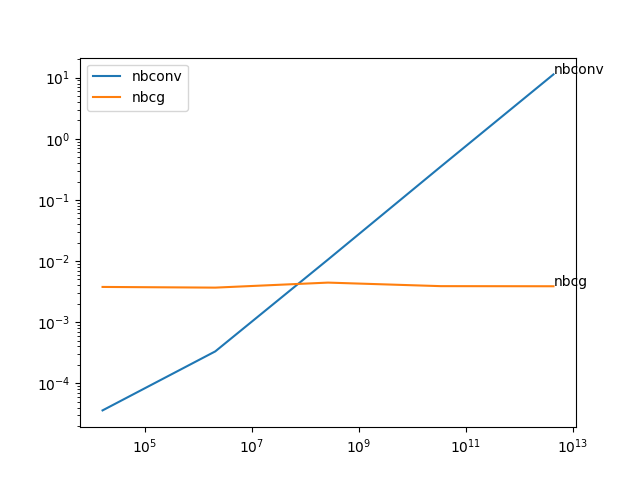
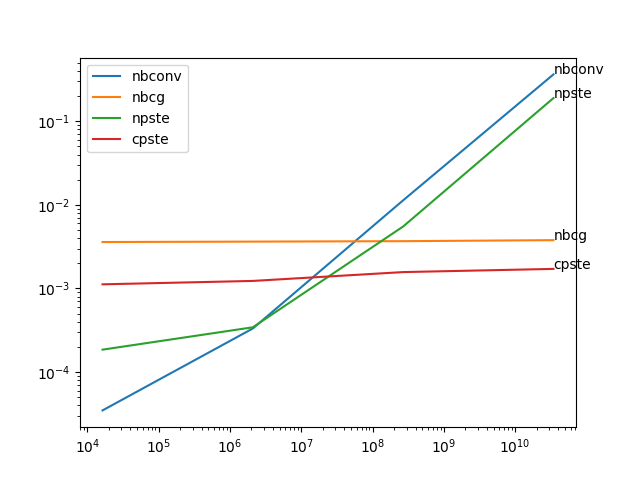
added strided, cp version fails at 6 in range(1,7)

diff --git a/test_3d_1o.py b/test_3d_1o.py
@@ -25,7 +25,7 @@ def t(f):
 
 @t
 @njit
-def test_3_nbconv(x,k): #numba_conv
+def test_3d1o_nbconv(x,k): #numba_conv
     l = x.shape[0] - k.shape[0] + 1
     y = np.zeros(l)
     for n in range(l):
@@ -35,8 +35,20 @@ def test_3_nbconv(x,k): #numba_conv
                     y[n] += x[i+n,j,l] * k[i,j,l]
     return y
 
+@t
+def test_3d1o_npste(x,k):
+    xw = np.lib.stride_tricks.as_strided(x, shape=(x.shape[0] - k.shape[0] + 1, )
+        + k.shape, strides=x.strides[:1] + x.strides)
+    return np.einsum('nijk,ijk', xw, k)
+
+@t
+def test_3d1o_cpste(x,k):
+    xw = cp.lib.stride_tricks.as_strided(x, shape=(x.shape[0] - k.shape[0] + 1, )
+        + k.shape, strides=x.strides[:1] + x.strides)
+    return cp.einsum('nijk,ijk', xw, k)
+
 @cuda.jit
-def test_3_nbcj_grid(x,k,y): #numba_conv
+def test_3d1o_nbcj_grid(x,k,y): #numba_conv
     n = cuda.grid(1)
     if (0 <= n) and (n < y.size):
         for i in range(k.shape[0]):
@@ -45,16 +57,16 @@ def test_3_nbcj_grid(x,k,y): #numba_conv
                     y[n] += x[i+n,j,l] * k[i,j,l]
 
 @t
-def test_3_nbcg(x, k):
+def test_3d1o_nbcg(x, k):
     l = x.shape[0] - k.shape[0] + 1
     y = cp.zeros(l)
     th = 128
     b = y.size//th+1
     # print(b,th)
-    test_3_nbcj_grid[b,th](x, k, y)
+    test_3d1o_nbcj_grid[b,th](x, k, y)
     return y
 
-def test_3_valid(n,m):
+def test_3d1o_valid(n,m):
     np.random.seed(0)
     x = np.random.uniform(-1,1,(n,m,m))
     k = np.random.uniform(-1,1,(m,m,m))
@@ -62,29 +74,35 @@ def test_3_valid(n,m):
     kc = cuda.to_device(k)
 
     if True:
-        nbconv = test_3_nbconv(x, k)
-        nbcg = test_3_nbcg(xc, kc)
+        nbconv = test_3d1o_nbconv(x, k)
+        nbcg = test_3d1o_nbcg(xc, kc)
+        npste = test_3d1o_npste(x, k)
+        cpste = test_3d1o_cpste(cp.asarray(x), cp.asarray(k))
 
         # print(nbconv)
+        # print(npste)
+        # print(cpste)
         # print(nbcg)
 
         print(np.all([
                 np.isclose(nbcg,nbconv)
+                ,np.isclose(npste,nbconv)
+                ,np.isclose(cpste,nbconv)
                 ])
                 , n, m
             )
 
-def test_3_plot():
-    for i in range(1,7):
-        test_3_valid(4**i, 2**i)
+def test_3d1o_plot():
+    for i in range(1,6):
+        test_3d1o_valid(4**i, 2**i)
 
     print(results)
     for k in results:
         a = np.asarray(results[k])
         x = [4**(i+1) * 2**(5*(i+1)) for i in range(a.shape[0])]
         y = a[:,2]
-        plt.plot(x[1:], y[1:], label=k[7:])
-        plt.text(x[-1], y[-1], str(k[7:]))
+        plt.plot(x[1:], y[1:], label=k[10:])
+        plt.text(x[-1], y[-1], str(k[10:]))
     plt.xscale('log')
     plt.yscale('log')
     plt.legend()
@@ -92,5 +110,5 @@ def test_3_plot():
 
 
 if __name__ == '__main__':
-    # test_3_valid(7, 2)
-    test_3_plot()
+    # test_3d1o_valid(7, 2)
+    test_3d1o_plot()
